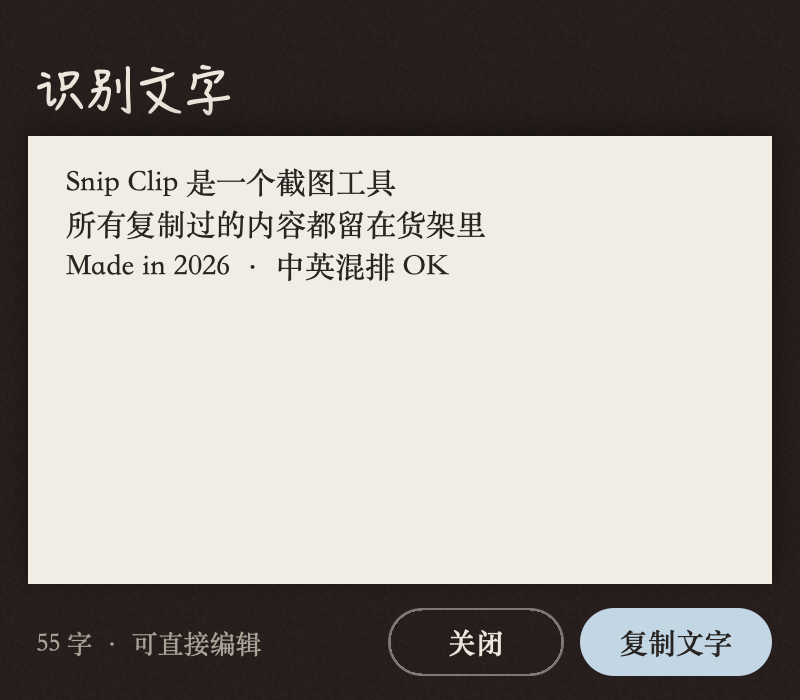
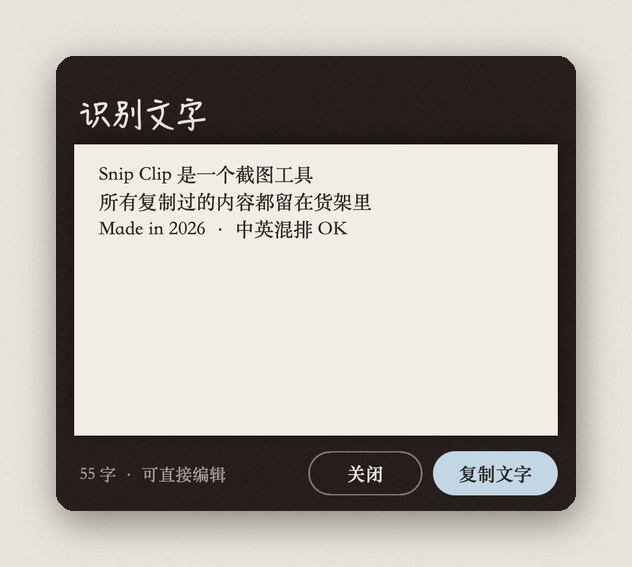
README: pain points, scenarios, framed screenshots, keyboard table, privacy (EN + ZH)
Claude-Session: https://claude.ai/code/session_011YTEG8e8bbZUvWaRN2PemN

diff --git a/README.md b/README.md
@@ -1,75 +1,132 @@
 <p align="center">
-  <img src="Resources/Logo.png" width="96" alt="Pastory">
+  <img src="Resources/Logo.png" width="104" alt="Pastory">
 </p>
 
 <h1 align="center">Pastory</h1>
 
 <p align="center">
-  Screenshots, screen recordings and everything you copy — kept on a paper shelf at the bottom of your Mac.<br>
-  <a href="README.zh.md">中文说明</a>
+  <b>Paste + History.</b> A paper shelf at the bottom of your Mac that keeps everything you copy —<br>
+  and a screenshot tool whose pictures land on that same shelf.
 </p>
 
 <p align="center">
-  <img src="docs/images/shelf-en.png" alt="The Pastory shelf" width="900">
+  <a href="README.zh.md">中文</a> ·
+  <a href="#install">Install</a> ·
+  <a href="#what-its-for">What it's for</a> ·
+  <a href="#a-tour">Tour</a> ·
+  <a href="#privacy--your-data">Privacy</a> ·
+  <a href="#build-from-source">Build</a>
 </p>
 
-Pastory is a small menu-bar app for macOS that does two things and does them together:
+<p align="center">
+  <img src="docs/images/shelf-en.png" alt="The Pastory shelf" width="920">
+</p>
 
-- **Capture** — press a shortcut, drag a region (or pick a window, or the whole screen), annotate with hand-drawn shapes, recognize text, or record the region as MP4 / GIF. The result goes straight to your clipboard.
-- **Remember** — every copy you make, including those captures, lands on a shelf you can open with another shortcut. Click a card to copy it back. Pin what matters; the rest is cleaned up on a schedule you choose.
+<p align="center">
+  <sub>macOS 15+ · Apple silicon &amp; Intel · no account · no network · open source</sub>
+</p>
 
-Everything stays on your Mac. No account, no network, no telemetry.
+---
 
-## Features
+## Why this exists
 
-**Capture**
-- Region / window / full-screen picker with resize handles; the front app keeps its menus and popovers open while you pick.
-- Color-accurate: captures in the display's own color space (Display P3 stays P3, nothing is squashed to sRGB). The copy you paste right after capturing is lossless; the shelf keeps screenshots as high-quality HEIC by default (lossless PNG is a setting), and "Save to Disk" always writes a full-resolution PNG.
-- Excalidraw-style annotations: rectangle, ellipse, arrow, line, pen, text, mosaic — seven colors, three weights, drag to move, handles to reshape.
-- Text recognition (Vision, on-device) for Chinese and English; the text is editable before you copy it.
-- Screen recording of the same region to MP4, or GIF with a size budget, with a preview before anything is copied.
+I used two screenshot tools at once. One shifted the colors of everything it captured but could read text out of the picture. The other kept the colors right but couldn't. Neither let me look back at what I had captured an hour ago, and neither had any idea what I copied in between.
 
-**Shelf**
-- Cards for text, links, images, files and recordings, with the source app and time. Search across text, titles and recognized text inside images.
-- Click = copy and stay, double-click or ⏎ = copy, close and paste straight into the app you came from (optional, needs Accessibility), Space = Quick Look.
-- Pin, give a card a handwritten title, edit text in place, re-annotate an image, save anything to disk.
-- Screenshots from other tools (WeChat, Feishu, CleanShot…) are recognized as images too, thumbnail and OCR included.
+Meanwhile the clipboard itself was a hole. The customer's shipping address, the reimbursement details, the prompt I keep pasting into an AI, the link a colleague sent this morning — every one of them was copied, pasted, lost, and copied again.
+
+Pastory is the tool I wanted instead: **one shortcut to capture, one shortcut to see everything I've copied, and nothing ever leaves my Mac.**
+
+## What it's for
+
+**"I copy this every week."**
+Pin it and give it a handwritten title — *翻译 prompt*, *公司地址*, *报销抬头*. Pinned cards are never cleaned up. Next time, ⇧⌘V, double-click, and it is pasted into whatever you were typing in.
+
+**"Where did that screenshot go?"**
+Every screenshot you take with Pastory is a card on the shelf, with the text inside it already recognized. Search for a word you remember seeing; the picture comes back. Screenshots from other tools you copy land there too.
+
+**"Send it now, keep it maybe."**
+⌥⌘S, drag, ⏎ — the picture is on your clipboard and you're pasting it into the chat. Decide later whether it deserves saving to disk. Unpinned things quietly expire on a schedule you set.
+
+**"This needs a red box."**
+Excalidraw-style annotations: rectangle, ellipse, arrow, line, pen, text, mosaic. Seven quiet colors, three weights, everything draggable and reshapeable, sketchy on purpose.
+
+**"Can you show me?"**
+Frame the same region and record it — MP4 for anything longer, GIF for a ten-second bug report. Native Retina pixels, encoded while recording, no waiting at the end.
+
+**"I'm coming from Paste."**
+Settings › Import reads Paste's database directly (and other SQLite-based managers heuristically). Your history comes over with its pins; it sorts behind what Pastory records itself.
+
+## A tour
+
+### Capture
+
+<p align="center"><img src="docs/images/capture-en.png" alt="Capture and annotation" width="920"></p>
+
+- Drag a region, tap a window (Space), or take the whole screen (F / ⏎). Handles let you resize after the fact; the front app's menus and pop-ups stay open and end up in the picture.
+- Color-accurate: captured in the display's own color space. Display P3 stays P3; nothing is squashed to sRGB.
+- **Recognize Text** runs Apple's on-device OCR (Chinese and English) and hands you an editable result.
+- Switch to **Record** on the same frame. The clip previews before anything is copied.
+
+### The shelf
+
+<p align="center"><img src="docs/images/shelf-zh.png" alt="Shelf, Chinese UI" width="920"></p>
+
+- Cards for text, links, images, files and recordings, with the app they came from and the time.
+- **Click** copies and keeps the shelf open (the blue card with the pushpin is what's on your clipboard right now). **Double-click or ⏎** copies, closes, and pastes into the app you came from. **Space** is Quick Look.
+- Just start typing to search — across text, titles and the words recognized inside images. ↑↓ moves, ⏎ takes.
+- Pin, rename, edit text in place, re-annotate an image, save to disk.
 - Copying something you copied before brings the old card back instead of making a twin.
 
-**Retention you can reason about**
-- Unpinned items live for *N* days (1 / 3 / 7 / 30 / 365 / forever), counted in calendar days with a cleanup time you set (04:00 by default). Pinned items are never auto-deleted. Deleting something by hand is final.
+### Editing what you already copied
 
-**Import**
-- Bring history over from another clipboard manager's SQLite database (Paste is read exactly; other Core Data / SQLite layouts heuristically) or from a Pastory folder on another Mac. Imported history sorts behind your own.
+<p align="center"><img src="docs/images/text-editor.png" alt="Text editor" width="620"> <img src="docs/images/ocr-panel.png" alt="Recognized text" width="300"></p>
 
-**Bilingual** — 中文 / English, following the system or set in Settings.
+Text opens in a plain editor that writes back to the same card. Images open in the annotator. Recognized text can be edited before it is copied.
 
-<p align="center">
-  <img src="docs/images/capture-en.png" alt="Capture and annotation" width="900">
-</p>
+### Recording
+
+<p align="center"><img src="docs/images/recording-preview.png" alt="Recording preview" width="520"></p>
+
+The recording plays back before you decide: **Copy as MP4** (H.264, or HEVC in settings) or **Copy as GIF** (size-capped by length so it still sends). A typical UI walkthrough weighs about 9 MB per minute.
+
+### Retention you can explain to someone
+
+Unpinned items live for *N* calendar days — 1, 3, 7, 30, 365 or forever — and are cleaned up at a time of day you pick (04:00 by default). Pinned items are never deleted automatically. Deleting by hand is final, and it stays final: an import cannot bring a deleted item back.
+
+<p align="center"><img src="docs/images/settings-zh.png" alt="Settings" width="920"></p>
+
+## Keyboard
+
+| | |
+|---|---|
+| ⌥⌘S | Screenshot / record (drag; Space = window; F or ⏎ = whole screen; ⎋ = cancel) |
+| ⇧⌘V | Open the shelf · ⌥⌘F opens it with search focused |
+| ← → ↑ ↓ | Move between cards · type anything to search |
+| ⏎ | Copy, close, paste into the app you came from |
+| Space | Quick Look · P pin · S save to disk · ⌫ delete |
+| In the annotator | R O A L P T M pick tools · ⌘Z undo · ⏎ done · ⎋ cancel |
+
+All three global shortcuts can be changed in Settings; Pastory refuses a combination another app already owns and tells you which.
 
 ## Install
 
 Requires macOS 15 (Sequoia) or later, Intel or Apple silicon.
 
 1. Download `Pastory-<version>.zip` from [Releases](../../releases), unzip, drag `Pastory.app` into Applications.
-2. Open it. Until the app is notarized, macOS will say it cannot verify the app: click Done, then System Settings › Privacy & Security › **Open Anyway** (once).
-3. Pastory has no main window — look for the handwritten **P** in the menu bar. The shelf opens by itself on first launch.
-4. The first screenshot asks for Screen Recording permission; turn Pastory on and relaunch it.
+2. Open it. Until the app is notarized, macOS will say it cannot verify the developer: click Done, then System Settings › Privacy & Security › **Open Anyway** (once).
+3. Pastory has no main window: look for the handwritten **P** in the menu bar. The shelf opens by itself the first time.
+4. The first screenshot asks for **Screen Recording** permission; turn Pastory on and relaunch it.
+5. Optional: **Accessibility** lets double-click paste into the app you came from. Without it, double-click copies and closes.
 
-Default shortcuts: **⌥⌘S** screenshot / record, **⇧⌘V** shelf, **⌥⌘F** shelf with search focused. Change them in the shelf › Settings.
+Updates: Pastory asks GitHub once a day whether a newer release exists and offers to install it (Settings › Updates; off if you prefer).
 
-## Where your data is
+## Privacy & your data
 
-`~/Library/Application Support/Pastory/`
-
-| | |
-|---|---|
-| `pastory.sqlite` | the index (SQLite, WAL): kind, time, source app, preview, recognized text, pin, title, content hash |
-| `items/<id>.<ext>` | the payloads themselves — `.txt`, `.png`, `.mp4`, `.gif`, or a JSON list of file paths |
-| `thumbs/<id>.heic` | thumbnails for the shelf |
-
-Plain files on purpose: you can look at them in Finder, back them up, or copy the folder to another Mac and import it.
+- Everything is in `~/Library/Application Support/Pastory/`: a small SQLite index (`pastory.sqlite`) next to plain files — `items/<id>.txt`, `.heic`, `.png`, `.mp4`, `.gif` and a `thumbs/` folder. Open it in Finder, back it up, copy it to another Mac and import it.
+- Screenshots are kept as high-quality HEIC by default (about a third of PNG; lossless PNG is a setting). The copy you paste right after capturing is lossless, and **Save to Disk** always writes a full-resolution PNG.
+- Pastory reads the general pasteboard's change counter twice a second and reads content only when it changed. Items marked concealed or transient by password managers are skipped.
+- The only network request is the daily update check. It carries no identifier and can be turned off.
+- No account, no analytics, no telemetry.
 
 ## Build from source
 
@@ -77,17 +134,13 @@ Plain files on purpose: you can look at them in Finder, back them up, or copy th
 git clone https://github.com/nothingbutcici/pastory.git
 cd pastory
 ./build.sh          # → build/Pastory.app (this machine's architecture)
-./dist.sh           # → dist/Pastory-<version>.zip (universal binary, first-open notes)
+./dist.sh           # → dist/Pastory-<version>.zip (universal binary + first-open notes)
 ```
 
 Swift Package Manager, macOS 15 SDK, Apple frameworks only (ScreenCaptureKit, Vision, AVFoundation, SQLite). `build.sh` signs with a local self-signed certificate when one exists (`tools/make-signing-cert.sh` creates it) so the Screen Recording permission survives rebuilds.
 
-Offscreen self-tests render every surface and exercise retention, clipboard ingestion and import without touching your real data — see [docs/DEVELOPMENT.md](docs/DEVELOPMENT.md), which is also the project's rulebook (storage rules, retention rules, visual system, conventions).
-
-## Privacy
-
-Once a day Pastory asks GitHub whether a newer release exists (Settings › System turns this off; it is the only network request the app makes, and it carries no identifier). Pastory reads the general pasteboard twice a second (it checks one integer, the change count, and only reads content when it changed). It skips items marked concealed or transient by password managers. Nothing leaves the machine.
+Offscreen self-tests render every surface and exercise retention, clipboard ingestion, import, HEIC storage and the recorder's writer — without touching your real data. The project's rulebook (storage and retention rules, visual system, conventions) is [docs/DEVELOPMENT.md](docs/DEVELOPMENT.md).
 
 ## Acknowledgements
 
-Typefaces: [Caveat](https://fonts.google.com/specimen/Caveat) and [Ysabeau Office](https://fonts.google.com/specimen/Ysabeau+Office) (SIL Open Font License, bundled in `Resources/Fonts`), Songti SC and HanziPen SC from macOS.
+Typefaces: [Caveat](https://fonts.google.com/specimen/Caveat) and [Ysabeau Office](https://fonts.google.com/specimen/Ysabeau+Office) (SIL Open Font License, bundled in `Resources/Fonts`), Songti SC and HanziPen SC from macOS. The shelf's interaction owes a debt to [Paste](https://pasteapp.io); the annotation style to [Excalidraw](https://excalidraw.com).

diff --git a/README.zh.md b/README.zh.md
@@ -1,75 +1,132 @@
 <p align="center">
-  <img src="Resources/Logo.png" width="96" alt="Pastory">
+  <img src="Resources/Logo.png" width="104" alt="Pastory">
 </p>
 
 <h1 align="center">Pastory</h1>
 
 <p align="center">
-  截图、录屏和所有复制过的东西，都留在 Mac 底部的一张纸架上。<br>
-  <a href="README.md">English</a>
+  <b>Paste + History。</b>Mac 底部的一张纸架，留着你复制过的一切；<br>
+  再加一个截图工具，截下来的图也放在同一张架子上。
 </p>
 
 <p align="center">
-  <img src="docs/images/shelf-zh.png" alt="Pastory 货架" width="900">
+  <a href="README.md">English</a> ·
+  <a href="#安装">安装</a> ·
+  <a href="#它解决什么">它解决什么</a> ·
+  <a href="#走一遍">走一遍</a> ·
+  <a href="#隐私与数据">隐私</a> ·
+  <a href="#从源码构建">构建</a>
 </p>
-
-Pastory 是一个 macOS 菜单栏小工具，把两件事合在一起做：
-
-- **截**：一个快捷键，框选区域（或选窗口、整屏），手绘风标注，识别文字，或者把这块区域录成 MP4 / GIF。结果直接进剪贴板。
-- **记**：每一次复制，包括上面这些截图录屏，都会出现在一张可以随时唤出的货架上。点一下卡片就复制回来。重要的 Pin 住，其余按你定的规则自动清理。
-
-所有内容只在你的电脑上。没有账号、不联网、不上报。
-
-## 功能
-
-**截图 / 录屏**
-- 区域 / 窗口 / 整屏选取，选区可拖手柄改大小；截图时前台应用的菜单和弹层不会被收起。
-- 不偏色：按显示器自己的色彩空间取图（P3 屏就是 P3，不转 sRGB）。截完立刻粘贴的那份是无损的；货架默认以高质量 HEIC 保存截图（可在设置改为无损 PNG），「保存到本地」永远导出全分辨率 PNG。
-- Excalidraw 风标注：矩形、椭圆、箭头、直线、画笔、文字、马赛克，七种颜色三档粗细，可拖动、可改形。
-- 本地文字识别（Vision），中英文都行，复制前可以先改。
-- 同一块区域录成 MP4，或带体积上限的 GIF，先预览再决定复制。
-
-**货架**
-- 文本、链接、图片、文件、录屏各有自己的卡片，带来源应用和时间。搜索覆盖正文、标题和图片里识别出的文字。
-- 单击 = 复制并停留，双击或 ⏎ = 复制、收起并直接粘贴进刚才的应用（可选，需要辅助功能权限），空格 = Quick Look。
-- Pin、手写体标题、原地编辑文字、给图片再加标注、保存到本地。
-- 微信、飞书、CleanShot 等其他工具的截图也按图片入库，有缩略图和文字识别。
-- 再次复制以前复制过的内容，不会出现两张一样的卡，而是把原来那张提到最前。
-
-**清理规则说得清**
-- 没 Pin 的内容保留 *N* 天（1 / 3 / 7 / 30 / 365 / 永不），按自然日算，清理时刻自己定（默认 04:00）。Pin 住的永远不会被自动删除。手动删除的不会再出现。
-
-**导入**
-- 从其他剪贴板工具的 SQLite 库迁移历史（Paste 按其真实结构精确读取，其他 Core Data / SQLite 布局按启发式读），或从另一台 Mac 的 Pastory 文件夹导入。导入的历史排在你自己的记录后面。
-
-**双语**：中文 / English，跟随系统或在设置里切换。
 
 <p align="center">
-  <img src="docs/images/capture-en.png" alt="截图与标注" width="900">
+  <img src="docs/images/shelf-zh.png" alt="Pastory 货架" width="920">
 </p>
+
+<p align="center">
+  <sub>macOS 15+ · Apple 芯片与 Intel · 无账号 · 不联网 · 开源</sub>
+</p>
+
+---
+
+## 为什么做它
+
+我曾经同时开着两个截图工具。一个截什么都偏色，但能把图里的字识别出来；另一个颜色是对的，但不认字。两个都不能让我回头看一小时前截过的图，也都不知道我中间复制过什么。
+
+而剪贴板本身是个黑洞。客户的收件地址、报销抬头、反复丢给 AI 的那段 prompt、同事早上发来的链接，每一样都是复制、粘贴、丢掉、再复制一遍。
+
+Pastory 是我想要的那个替代品：**一个快捷键截图，一个快捷键看见复制过的一切，而且什么都不会离开我的电脑。**
+
+## 它解决什么
+
+**「这个我每周都要复制。」**
+Pin 住，写个手写体的标题：*翻译 prompt*、*公司地址*、*报销抬头*。Pin 住的卡永远不会被清理。下次 ⇧⌘V，双击，它就粘进你正在打字的地方。
+
+**「那张截图去哪了？」**
+用 Pastory 截的每一张图都是货架上的一张卡，图里的字已经识别好了。搜一个你记得看见过的词，图就回来。用其他工具截的、复制到剪贴板的图，同样会进来。
+
+**「先发出去，要不要留再说。」**
+⌥⌘S，框选，⏎，图已经在剪贴板里，转身就贴进聊天窗口。值不值得存到本地以后再决定；没 Pin 的东西按你定的规则悄悄过期。
+
+**「这里得画个红框。」**
+Excalidraw 风格的标注：矩形、椭圆、箭头、直线、画笔、文字、马赛克。七种安静的颜色，三档粗细，全都能拖能改，手绘感是故意的。
+
+**「你演示一下？」**
+同一个框，改成录屏：长的录 MP4，十秒的 bug 复现录 GIF。Retina 原生像素，边录边编码，停止就好，不用等。
+
+**「我以前用 Paste。」**
+设置 › 导入 直接读 Paste 的数据库（其他基于 SQLite 的剪贴板工具按启发式读），历史连同 Pin 一起过来，排在 Pastory 自己记录的后面。
+
+## 走一遍
+
+### 截图
+
+<p align="center"><img src="docs/images/capture-zh.png" alt="截图与标注" width="920"></p>
+
+- 拖一块区域、点一个窗口（空格）、或整屏（F / ⏎）。选完还能拖手柄改大小；前台应用的菜单和弹层不会因为截图而收起，会一起进到图里。
+- 不偏色：按显示器自己的色彩空间取图，P3 屏就是 P3，不转 sRGB。
+- **识别文字**用 Apple 本地 OCR（中英文），结果可以先改再复制。
+- 同一个框切到**录屏**，录完先预览再决定复制。
+
+### 货架
+
+<p align="center"><img src="docs/images/shelf-en.png" alt="货架（英文界面）" width="920"></p>
+
+- 文本、链接、图片、文件、录屏各有自己的卡片，带来源应用和时间。
+- **单击**复制并停留（带粉色钉子的浅蓝卡就是此刻剪贴板里的那条）；**双击或 ⏎** 复制、收起、并粘进你刚才所在的应用；**空格**是 Quick Look。
+- 直接敲字就是搜索，覆盖正文、标题和图片里识别出的字；↑↓ 移动，⏎ 拿走。
+- Pin、起名、原地改文字、给图片再加标注、保存到本地。
+- 再次复制以前复制过的内容，不会出现两张一样的卡，原来那张会提到最前。
+
+### 改已经复制过的东西
+
+<p align="center"><img src="docs/images/text-editor.png" alt="文本编辑" width="620"> <img src="docs/images/ocr-panel.png" alt="识别文字" width="300"></p>
+
+文本在一个干净的编辑器里改，写回同一张卡；图片直接进标注器；识别出的文字可以先改再复制。
+
+### 录屏
+
+<p align="center"><img src="docs/images/recording-preview.png" alt="录屏预览" width="520"></p>
+
+录完先播放，再决定：**复制为 MP4**（H.264，设置里可选 HEVC）或**复制为 GIF**（按时长限制体积，保证发得出去）。一段普通的界面演示大约每分钟 9 MB。
+
+### 说得清的清理规则
+
+没 Pin 的内容保留 *N* 个自然日：1、3、7、30、365 天或永不，在你指定的时刻清理（默认 04:00）。Pin 住的永远不会被自动删除。手动删除是最终的，而且一直最终：导入也不会把删过的东西带回来。
+
+<p align="center"><img src="docs/images/settings-zh.png" alt="设置" width="920"></p>
+
+## 键盘
+
+| | |
+|---|---|
+| ⌥⌘S | 截图 / 录屏（拖选；空格 = 窗口；F 或 ⏎ = 整屏；⎋ = 取消） |
+| ⇧⌘V | 打开货架 · ⌥⌘F 打开并聚焦搜索 |
+| ← → ↑ ↓ | 在卡片间移动 · 直接敲字即搜索 |
+| ⏎ | 复制、收起、粘进刚才的应用 |
+| 空格 | Quick Look · P Pin · S 保存到本地 · ⌫ 删除 |
+| 标注器里 | R O A L P T M 选工具 · ⌘Z 撤销 · ⏎ 完成 · ⎋ 取消 |
+
+三个全局快捷键都可以在设置里改；被其他应用占用的组合会被拒绝并告诉你是谁。
 
 ## 安装
 
 需要 macOS 15 (Sequoia) 或更新，Intel 和 Apple 芯片都可以。
 
 1. 在 [Releases](../../releases) 下载 `Pastory-<版本>.zip`，解压，把 `Pastory.app` 拖进「应用程序」。
-2. 打开它。在公证完成之前，macOS 会说无法验证这个 app：点「完成」，再到 系统设置 › 隐私与安全性 › **仍要打开**（只需一次）。
+2. 打开它。在公证完成之前，macOS 会说无法验证开发者：点「完成」，再到 系统设置 › 隐私与安全性 › **仍要打开**（只需一次）。
 3. Pastory 没有主窗口，看菜单栏右上角的手写 **P**。第一次启动会自动弹出货架。
-4. 第一次截图会请求「屏幕录制」权限，打开后重新启动 Pastory。
+4. 第一次截图会请求**屏幕录制**权限，打开后重新启动 Pastory。
+5. 可选：**辅助功能**权限让双击能直接粘进刚才的应用；不给的话双击就是复制并收起。
 
-默认快捷键：**⌥⌘S** 截图 / 录屏，**⇧⌘V** 货架，**⌥⌘F** 打开货架并聚焦搜索。都可以在 货架 › 设置 里改。
+更新：Pastory 每天问一次 GitHub 有没有新版本，有就提示安装（设置 › 版本更新，可关）。
 
-## 数据在哪
+## 隐私与数据
 
-`~/Library/Application Support/Pastory/`
-
-| | |
-|---|---|
-| `pastory.sqlite` | 索引（SQLite，WAL）：类型、时间、来源应用、预览、识别文字、Pin、标题、内容哈希 |
-| `items/<id>.<ext>` | 正文本身：`.txt`、`.png`、`.mp4`、`.gif`，或文件路径列表的 JSON |
-| `thumbs/<id>.heic` | 货架缩略图 |
-
-故意用普通文件：Finder 里能直接看，能被备份，整个文件夹拷到另一台 Mac 就能导入。
+- 所有内容都在 `~/Library/Application Support/Pastory/`：一个很小的 SQLite 索引（`pastory.sqlite`）加普通文件——`items/<id>.txt`、`.heic`、`.png`、`.mp4`、`.gif`，以及缩略图目录 `thumbs/`。Finder 里能直接看，能备份，拷到另一台 Mac 就能导入。
+- 截图默认以高质量 HEIC 保存（约 PNG 的三分之一，可在设置改为无损 PNG）。截完立刻粘贴的那份是无损的，**保存到本地**永远导出全分辨率 PNG。
+- Pastory 每半秒读一次系统剪贴板的变化计数，只在变化时读内容；密码管理器标记为隐藏或临时的内容会被跳过。
+- 唯一的联网请求是每天一次的更新检查，不带任何标识，可以关掉。
+- 没有账号，没有统计，没有上报。
 
 ## 从源码构建
 
@@ -82,12 +139,8 @@ cd pastory
 
 Swift Package Manager，macOS 15 SDK，只用 Apple 自带框架（ScreenCaptureKit、Vision、AVFoundation、SQLite）。有本地自签名证书时 `build.sh` 会用它签名（`tools/make-signing-cert.sh` 生成），这样重新编译不会丢屏幕录制权限。
 
-离屏自测会渲染每个界面、跑保留期 / 剪贴板入库 / 导入的用例，且不会碰你的真实数据。细节见 [docs/DEVELOPMENT.md](docs/DEVELOPMENT.md)，那也是这个项目的规则本（存储规则、清理规则、视觉系统、约定）。
-
-## 隐私
-
-Pastory 每天向 GitHub 问一次有没有新版本（设置 › 系统 可关；这是它唯一的网络请求，不带任何标识）。Pastory 每半秒读一次系统剪贴板的变化计数（一个整数），只在变化时读内容；密码管理器标记为隐藏或临时的内容会被跳过。没有任何数据离开这台电脑。
+离屏自测会渲染每个界面，并跑保留期、剪贴板入库、导入、HEIC 存储和录屏写入器的用例，且不会碰你的真实数据。项目的规则本（存储与清理规则、视觉系统、约定）在 [docs/DEVELOPMENT.md](docs/DEVELOPMENT.md)。
 
 ## 致谢
 
-字体：[Caveat](https://fonts.google.com/specimen/Caveat)、[Ysabeau Office](https://fonts.google.com/specimen/Ysabeau+Office)（SIL 开源字体许可，随包附带于 `Resources/Fonts`），以及 macOS 自带的宋体-简 和 翩翩体-简。
+字体：[Caveat](https://fonts.google.com/specimen/Caveat)、[Ysabeau Office](https://fonts.google.com/specimen/Ysabeau+Office)（SIL 开源字体许可，随包附带于 `Resources/Fonts`），以及 macOS 自带的宋体-简和翩翩体-简。货架的交互受 [Paste](https://pasteapp.io) 启发，标注风格来自 [Excalidraw](https://excalidraw.com)。
